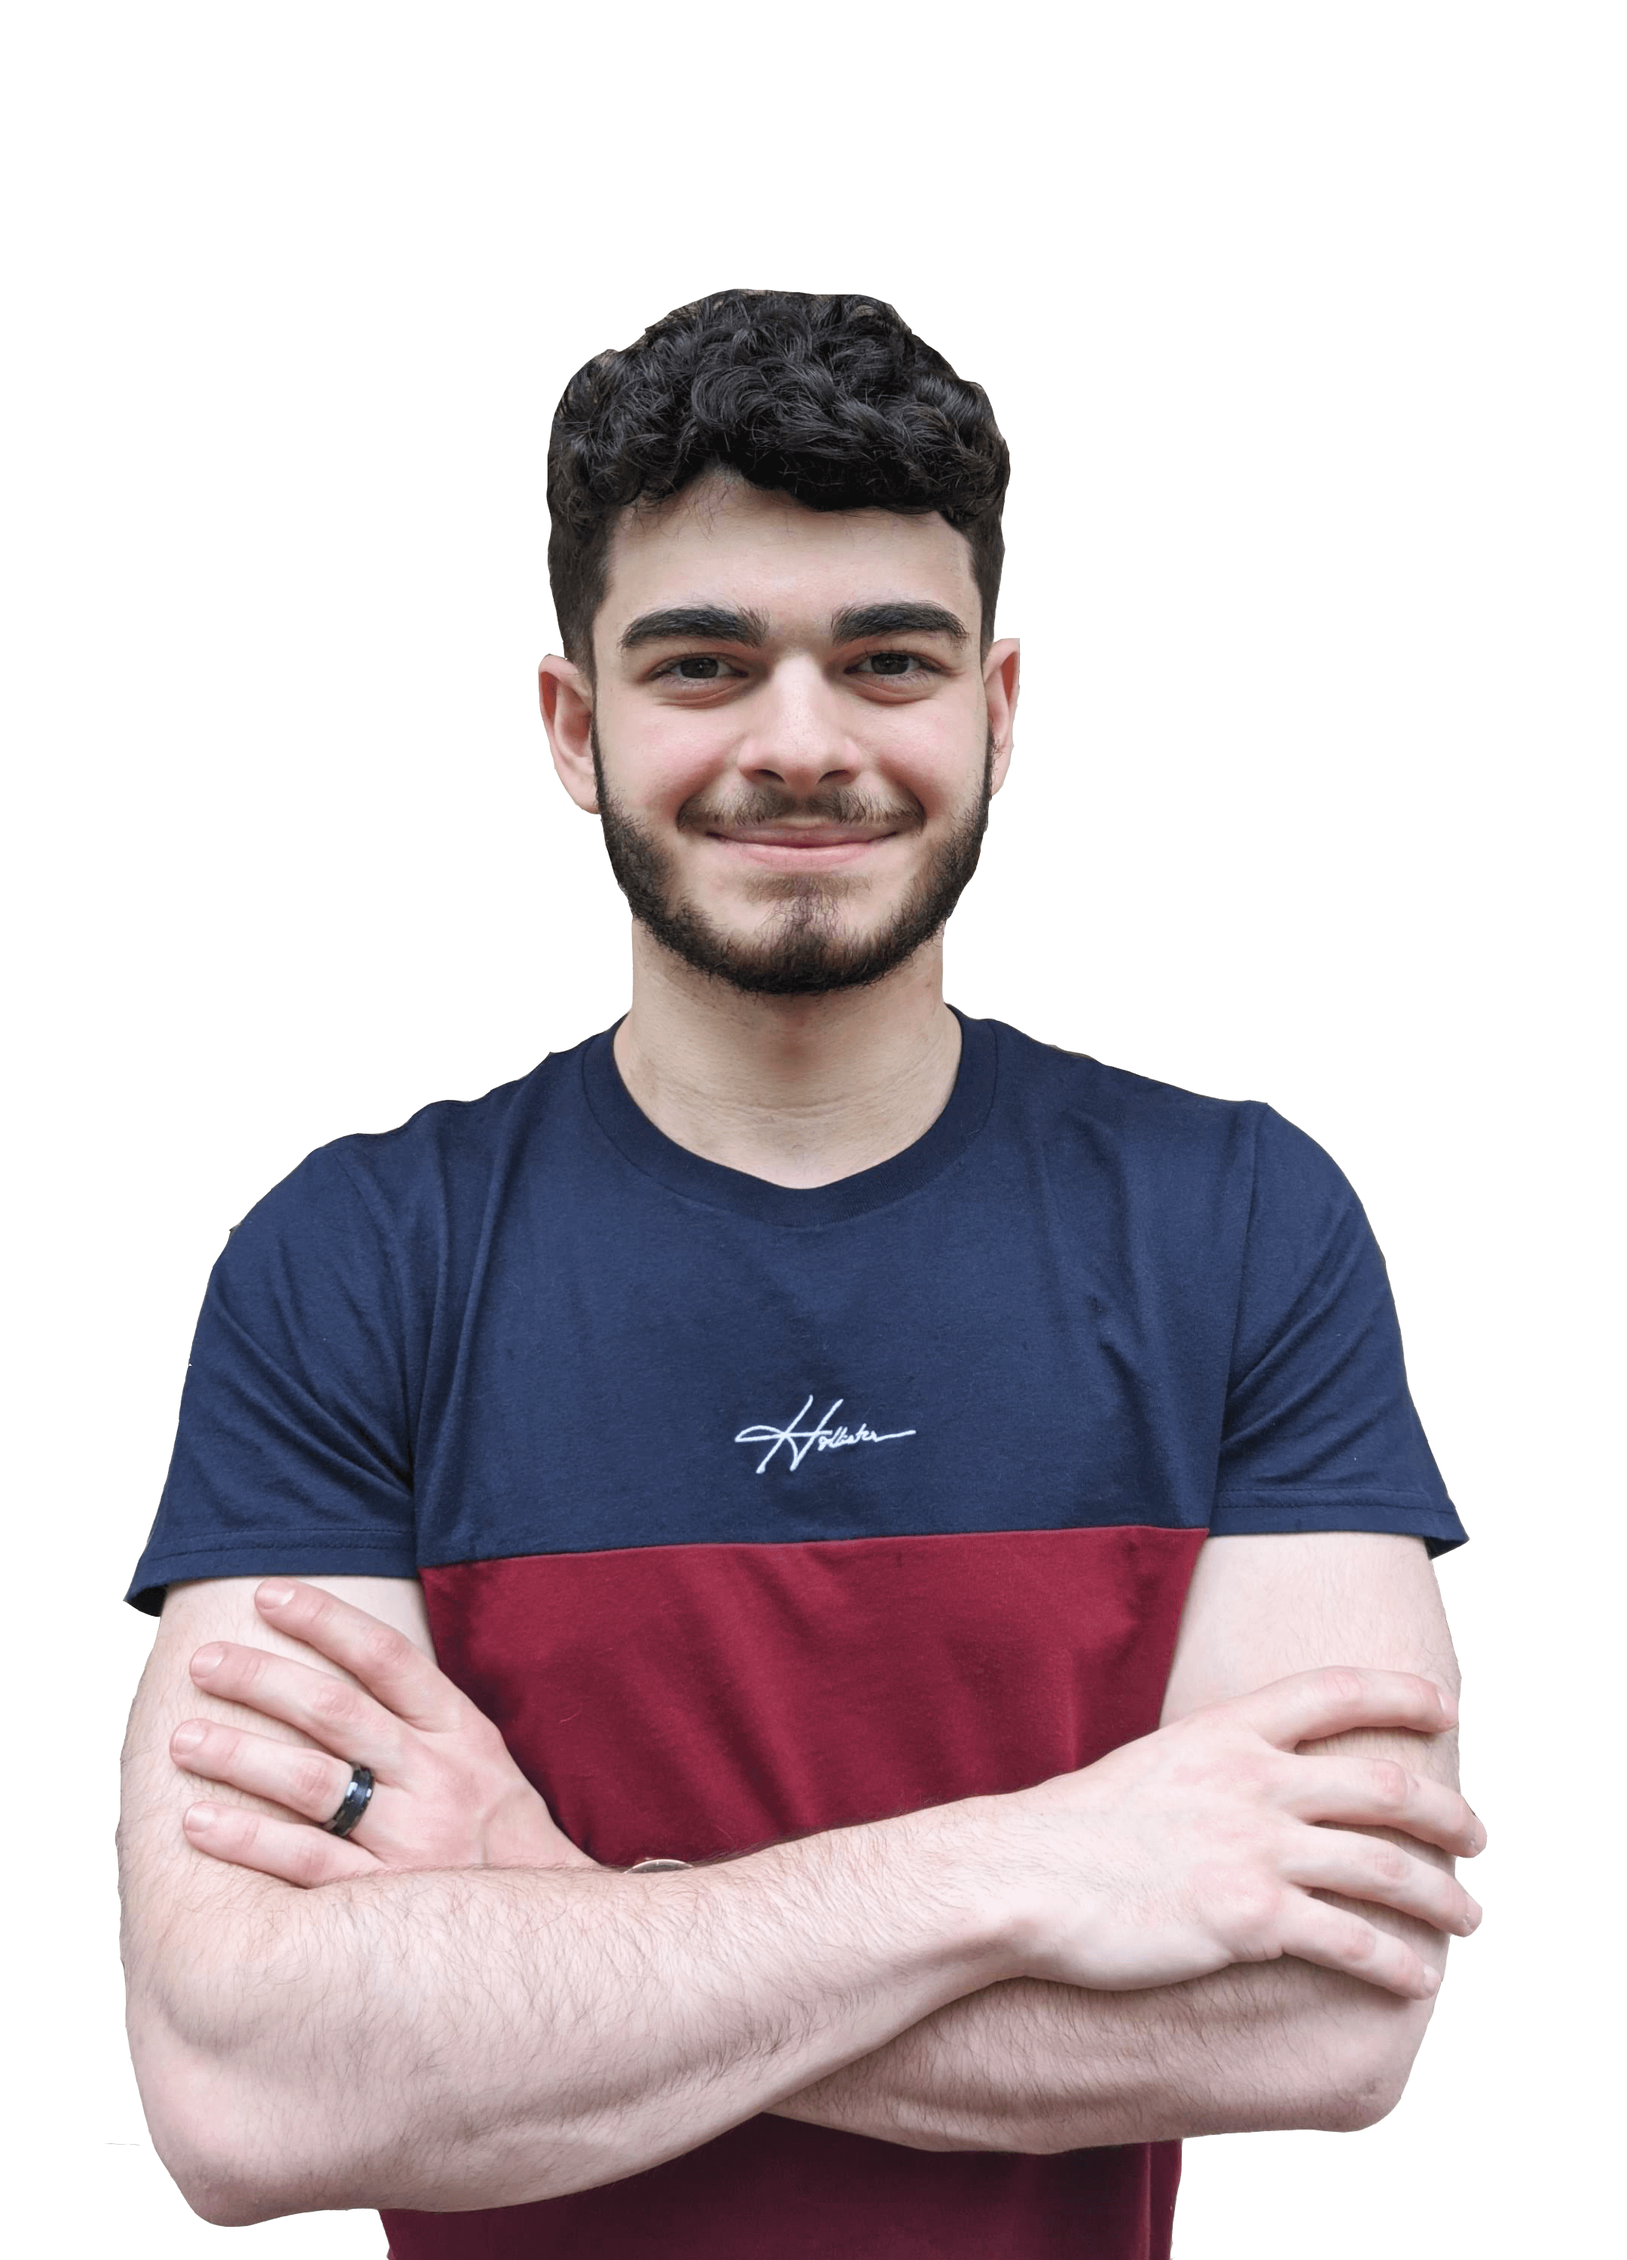
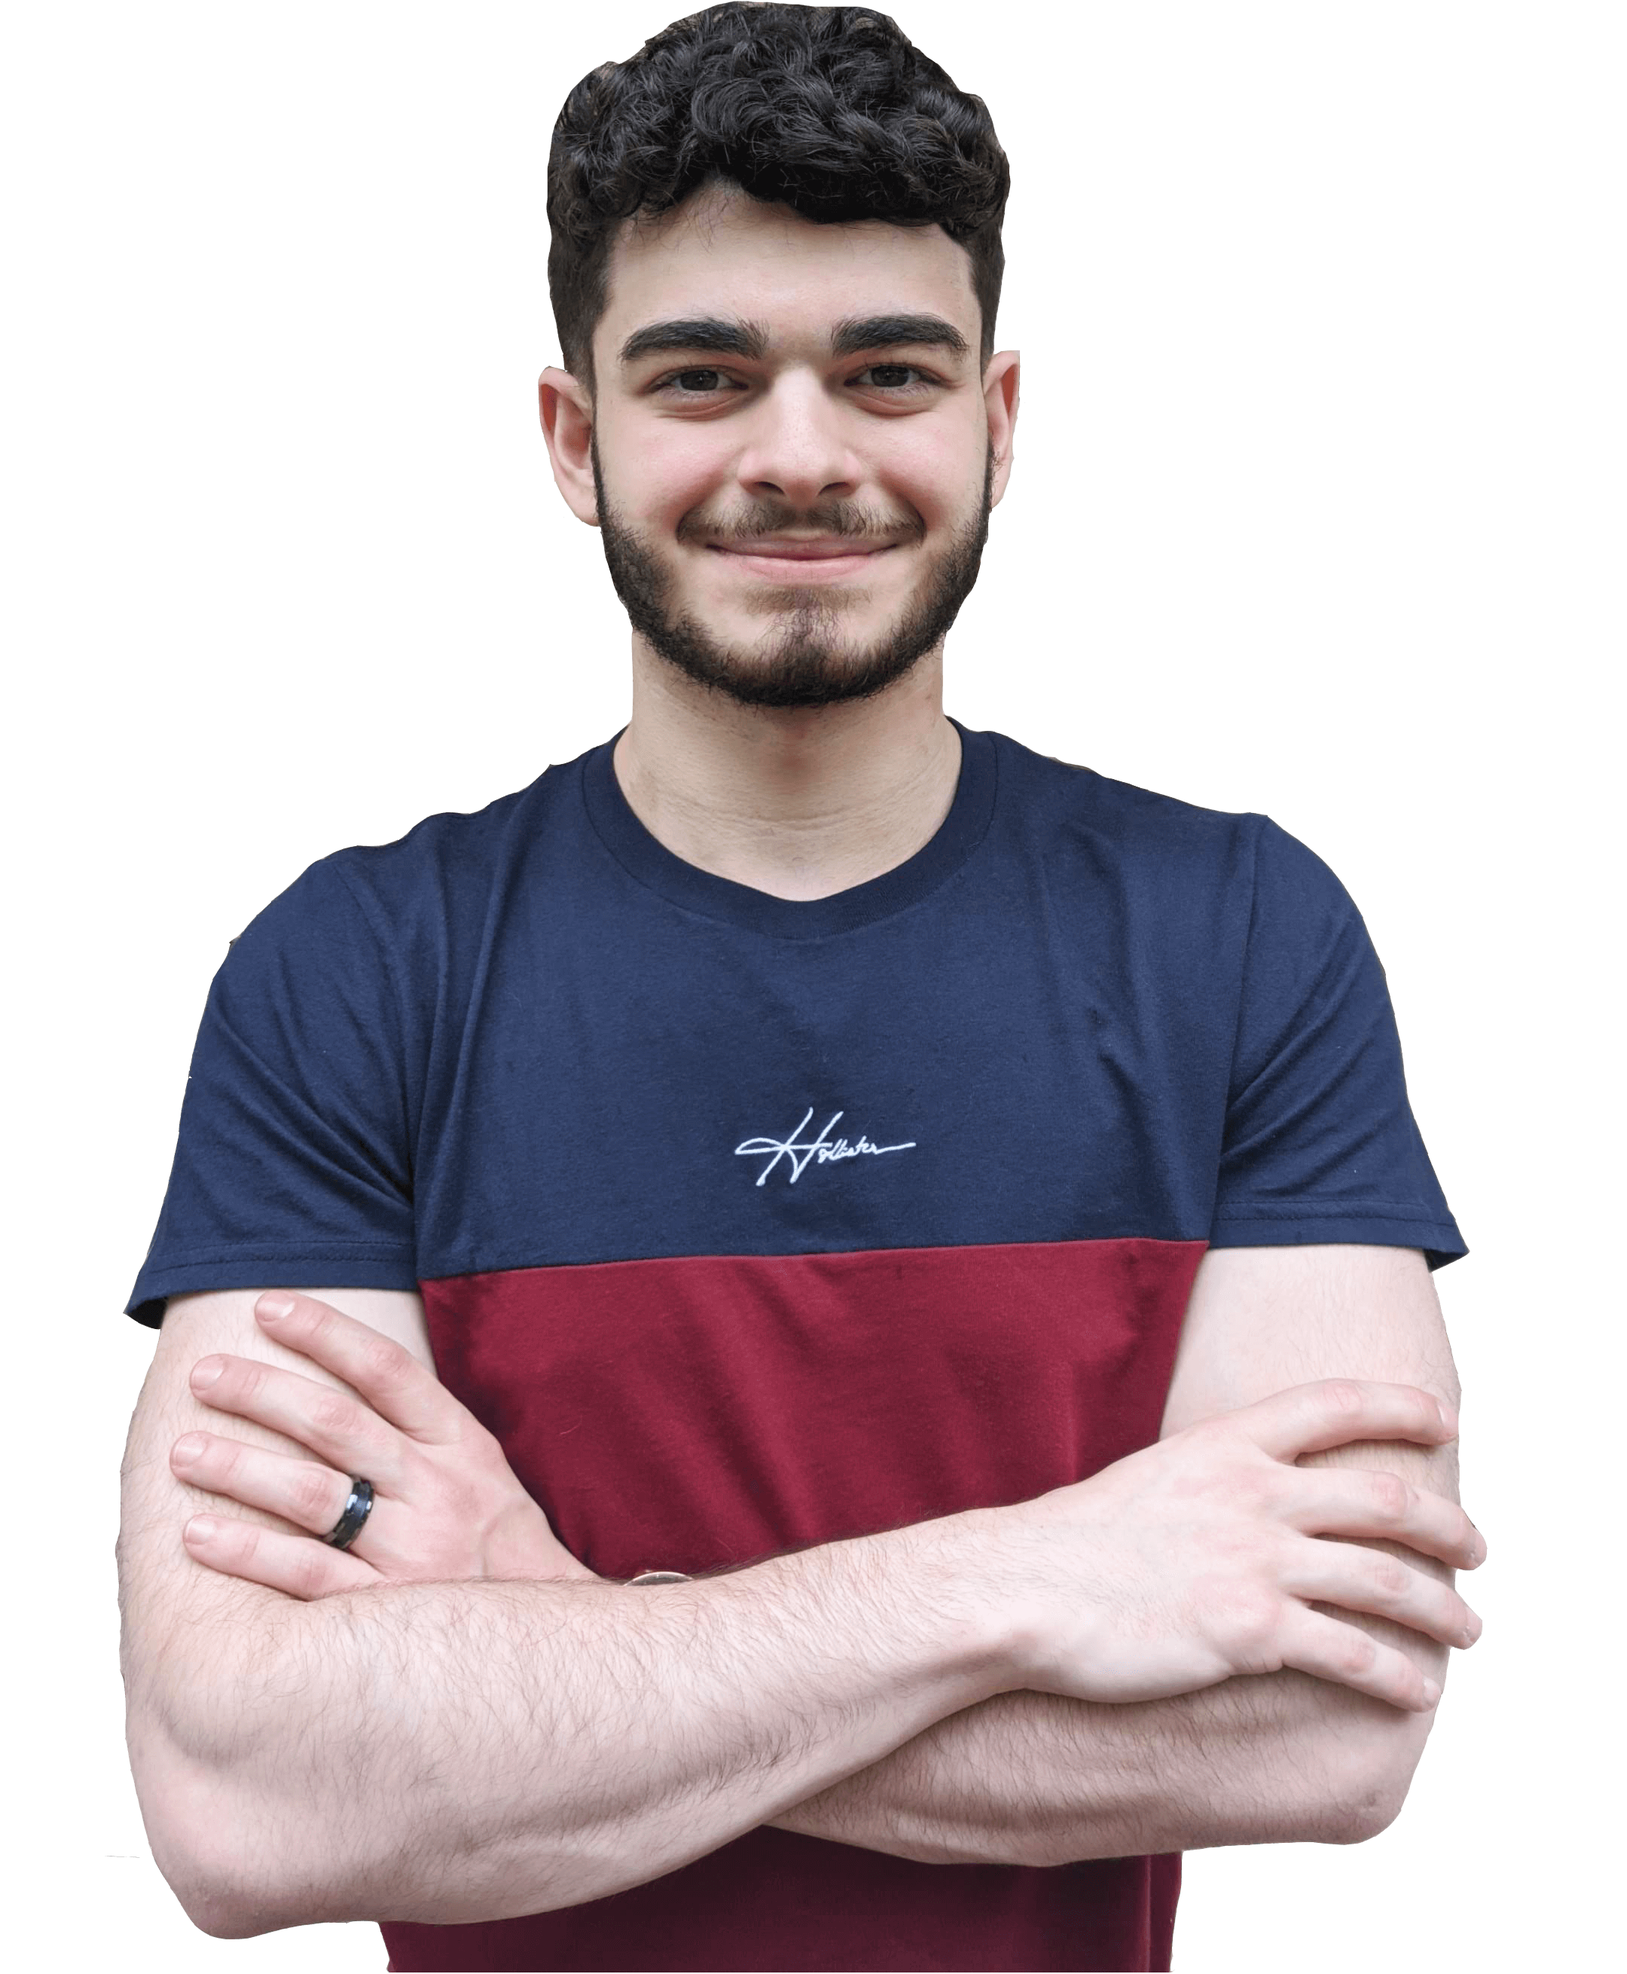
changed size of splash image

diff --git a/css/style.css b/css/style.css
@@ -145,11 +145,11 @@ header h1 {
 }
 
 #splash-portrait {
-    margin-bottom: -.2em;
-    margin-right: 10%;
+    margin-right: 11%;
     pointer-events: none;
     float: right;
-    width: 23.05em;
+    width: 24em;
+    margin-top: 2.9em;
 }
 
 .default-wrapper {
@@ -254,6 +254,13 @@ footer {
     margin-right: auto;
     text-align: center;
     font-size: .8em;
+}
+
+
+@media screen and (max-width: 1600px) {
+    #splash-portrait {
+        margin-right: 6%;
+    }
 }
 
 /* MOBILE */
